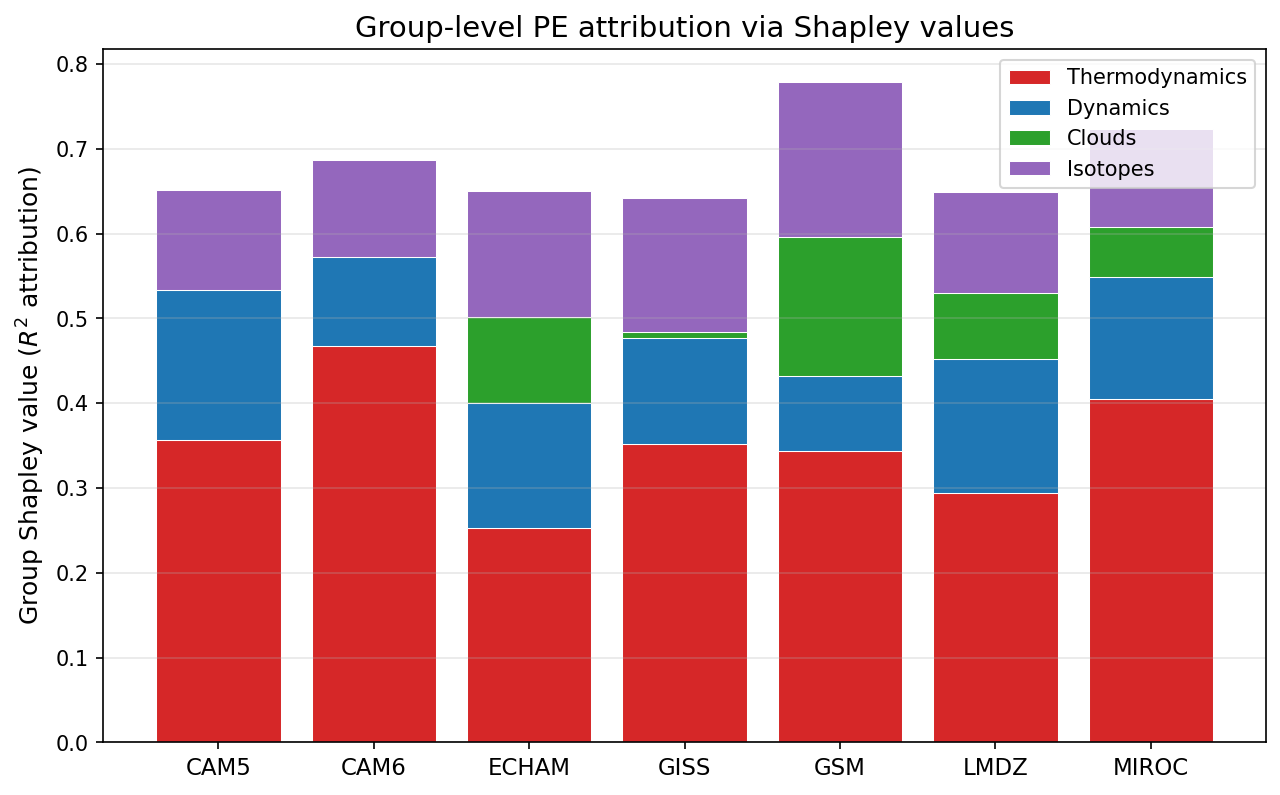
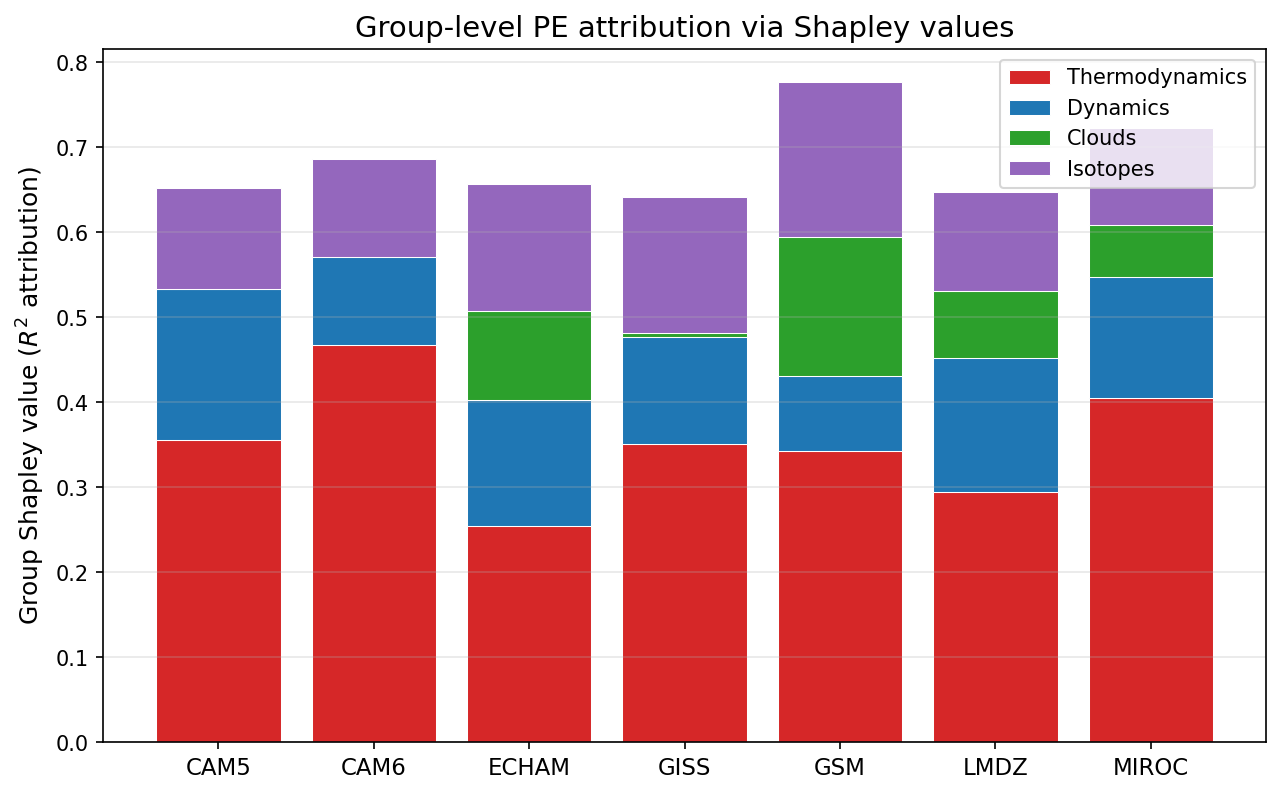
group shapley: cam5 exclusion, sensitivity, fraction heatmap

diff --git a/src/swing3/group_shapley_attribution.py b/src/swing3/group_shapley_attribution.py
@@ -11,6 +11,7 @@ from nc.loader import PROJECT_ROOT
 from swing3.config import (
     GROUP_COLORS,
     GROUP_LABELS,
+    MODEL_EXCLUDED_GROUPS,
     MODELS,
     PREDICTOR_GROUPS,
     columns_for_stage,
@@ -54,21 +55,48 @@ def _shapley_from_coalition_r2(coalition_r2: dict, group_names: list) -> dict:
 
 
 @MEMORY.cache
-def run_group_shapley_attribution(model_name: str, n_seeds: int = 5) -> dict:
+def run_group_shapley_attribution(
+    model_name: str,
+    n_seeds: int = 5,
+    isotope_features: tuple[str, ...] | None = None,
+    excluded_groups: tuple[str, ...] | None = None,
+) -> dict:
     """
-    Compute group-level Shapley values for the 4 predictor groups for one model.
+    Compute group-level Shapley values for the predictor groups for one model.
+
+    Parameters
+    ----------
+    isotope_features : tuple[str, ...] | None
+        Override the isotope feature list. When None, uses PREDICTOR_GROUPS["isotopes"].
+        Pass a tuple (hashable for caching) to run a sensitivity analysis, e.g.
+        isotope_features=("dD_gradient", "dexcessp") to exclude dDp.
+    excluded_groups : tuple[str, ...] | None
+        Groups to exclude entirely from the Shapley game (e.g. ("clouds",) for CAM5
+        which has no cloud data). Excluded groups receive a Shapley value of 0.
 
     Returns a dict
-      shapley      :  mean Shapley value per group
-      shapley_std  :  std of Shapley values across seeds
+      shapley      :  mean Shapley value per group (0 for excluded groups)
+      shapley_std  :  std of Shapley values across seeds (0 for excluded groups)
       coalition_r2 :  mean R2 per coalition (frozenset of group names -> float)
-      stage_4_r2   :  R2 of the full model (all 4 groups)
+      stage_4_r2   :  R2 of the full model (all active groups)
     """
     print(f"Loading features for {model_name}...")
     features, target, groups = load_shap_features(model_name)
 
-    group_names = list(PREDICTOR_GROUPS.keys())
+    predictor_groups = dict(PREDICTOR_GROUPS)
+    if isotope_features is not None:
+        predictor_groups = {**PREDICTOR_GROUPS, "isotopes": list(isotope_features)}
+
+    # Remove excluded groups from the Shapley game
+    _excluded = set(excluded_groups) if excluded_groups else set()
+    predictor_groups = {g: cols for g, cols in predictor_groups.items()
+                        if g not in _excluded}
+
+    group_names = list(predictor_groups.keys())
     n = len(group_names)
+
+    def _cols_for_coalition(coalition):
+        return [col for g in sorted(coalition) for col in predictor_groups[g]]
 
     # all 2^n - 1 non-empty subsets of groups, ordered by size for readable output
     all_coalitions = [
@@ -83,7 +111,7 @@ def run_group_shapley_attribution(model_name: str, n_seeds: int = 5) -> dict:
     coalition_r2_seeds: dict[frozenset, list[float]] = {frozenset(): [0.0] * n_seeds}
 
     for coalition in all_coalitions:
-        cols = columns_for_stage(list(coalition))
+        cols = _cols_for_coalition(coalition)
         print(f"\t\tTuning {set(coalition)}...")
         best_params = _tune_hyperparameters(
             features[cols], target, groups, random_state=10
@@ -107,20 +135,25 @@ def run_group_shapley_attribution(model_name: str, n_seeds: int = 5) -> dict:
     shapley_std = {
         g: float(np.std([o[g] for o in shapley_per_seed])) for g in group_names
     }
+    # Add zero entries for excluded groups so downstream code sees all groups
+    for g in _excluded:
+        shapley_mean[g] = 0.0
+        shapley_std[g] = 0.0
+
     coalition_r2_mean = {k: float(np.mean(v)) for k, v in coalition_r2_seeds.items()}
     stage_4_r2 = coalition_r2_mean[frozenset(group_names)]
 
-    # efficiency axiom: group Shapley values must sum to Stage 4 R2 (within rounding)
-    shapley_sum = sum(shapley_mean.values())
+    # efficiency axiom: active group Shapley values must sum to full-coalition R2
+    shapley_sum = sum(shapley_mean[g] for g in group_names)
     assert abs(shapley_sum - stage_4_r2) < 1e-6, (
         f"Efficiency axiom violated for {model_name}: "
-        f"sum(Shapley) = {shapley_sum:.6f}, Stage 4 R2 = {stage_4_r2:.6f}"
+        f"sum(Shapley) = {shapley_sum:.6f}, full-coalition R2 = {stage_4_r2:.6f}"
     )
 
     print(
-        f"\tGroup Shapley values (sum = {shapley_sum:.3f}, Stage 4 R2 = {stage_4_r2:.3f}):"
+        f"\tGroup Shapley values (sum = {shapley_sum:.3f}, full-coalition R2 = {stage_4_r2:.3f}):"
     )
-    for g in group_names:
+    for g in list(group_names) + sorted(_excluded):
         print(f"\t\t{g}: {shapley_mean[g]:.3f} +- {shapley_std[g]:.3f}")
 
     return {
@@ -187,19 +220,122 @@ def print_comparison_table(all_results: dict[str, dict]) -> None:
         print(row)
 
 
+def plot_group_fraction_heatmap(all_results: dict[str, dict]) -> None:
+    """Heatmap of group Shapley values as a fraction of Stage 4 R2 per model.
+
+    The dominant group per model is shown in bold. Answers: which model is most
+    dependent on which predictor group?
+    """
+    os.makedirs(PLOTS_DIR, exist_ok=True)
+
+    model_names = list(all_results.keys())
+    group_names = list(PREDICTOR_GROUPS.keys())
+
+    matrix = np.zeros((len(model_names), len(group_names)))
+    for i, m in enumerate(model_names):
+        r2 = all_results[m]["stage_4_r2"]
+        for j, g in enumerate(group_names):
+            matrix[i, j] = all_results[m]["shapley"][g] / r2 if r2 > 0 else 0
+
+    dominant_idx = matrix.argmax(axis=1)
+
+    fig, ax = plt.subplots(figsize=(8, 5))
+    im = ax.imshow(matrix, cmap="Blues", aspect="auto", vmin=0, vmax=1)
+
+    ax.set_xticks(np.arange(len(group_names)))
+    ax.set_xticklabels([GROUP_LABELS[g] for g in group_names], fontsize=11)
+    ax.set_yticks(np.arange(len(model_names)))
+    ax.set_yticklabels(model_names, fontsize=11)
+
+    for i in range(len(model_names)):
+        for j in range(len(group_names)):
+            val = matrix[i, j]
+            weight = "bold" if j == dominant_idx[i] else "normal"
+            color = "white" if val > 0.5 else "black"
+            ax.text(
+                j, i, f"{val:.2f}",
+                ha="center", va="center",
+                fontsize=10, fontweight=weight, color=color,
+            )
+
+    fig.colorbar(im, ax=ax, label="Fraction of Stage 4 R2", shrink=0.8)
+    ax.set_title(
+        "Group Shapley fraction of Stage 4 R2 per model\n(bold = dominant group)",
+        fontsize=13,
+    )
+
+    out = os.path.join(PLOTS_DIR, "group_fraction_heatmap.png")
+    fig.savefig(out, dpi=150, bbox_inches="tight")
+    plt.close(fig)
+    print(f"Saved: {out}")
+
+
+def print_dominant_group_table(all_results: dict[str, dict]) -> None:
+    """Print the dominant predictor group per model with its Shapley fraction."""
+    group_names = list(PREDICTOR_GROUPS.keys())
+    print(f"\n{'Model':<10}  {'Dominant group':<18}  {'Fraction':>8}  {'Stage4 R2':>10}")
+    print("-" * 55)
+    for model_name, result in all_results.items():
+        r2 = result["stage_4_r2"]
+        dominant = max(group_names, key=lambda g: result["shapley"][g])
+        frac = result["shapley"][dominant] / r2 if r2 > 0 else 0
+        print(f"{model_name:<10}  {GROUP_LABELS[dominant]:<18}  {frac:>8.3f}  {r2:>10.3f}")
+
+
+def print_sensitivity_comparison(
+    baseline: dict[str, dict],
+    sensitivity: dict[str, dict],
+) -> None:
+    """Compare isotope group Shapley values with and without dDp."""
+    print(f"\n{'Model':<10}  {'Isotopes (full)':>16}  {'Isotopes (no dDp)':>18}  {'Delta':>8}  {'Stage4 R2 (no dDp)':>18}")
+    print("-" * 80)
+    for model_name in baseline:
+        base_iso = baseline[model_name]["shapley"]["isotopes"]
+        base_std = baseline[model_name]["shapley_std"]["isotopes"]
+        sens_iso = sensitivity[model_name]["shapley"]["isotopes"]
+        sens_std = sensitivity[model_name]["shapley_std"]["isotopes"]
+        delta = sens_iso - base_iso
+        stage4 = sensitivity[model_name]["stage_4_r2"]
+        print(
+            f"{model_name:<10}  {base_iso:.3f}+-{base_std:.3f}  "
+            f"{sens_iso:.3f}+-{sens_std:.3f}  {delta:>+8.3f}  {stage4:>18.3f}"
+        )
+
+
 def main() -> None:
     os.makedirs(PLOTS_DIR, exist_ok=True)
 
     all_results = {}
     for model_name in MODELS:
         print(f"=== {model_name} ===")
-        all_results[model_name] = run_group_shapley_attribution(model_name)
+        excluded = tuple(sorted(MODEL_EXCLUDED_GROUPS.get(model_name, set())))
+        all_results[model_name] = run_group_shapley_attribution(
+            model_name, excluded_groups=excluded or None
+        )
 
     print("\nGroup Shapley attribution table:")
     print_comparison_table(all_results)
 
     print("\nGenerating plots...")
     plot_group_shapley_attribution(all_results)
+    plot_group_fraction_heatmap(all_results)
+
+    print("\nDominant group per model:")
+    print_dominant_group_table(all_results)
+
+    print("\n=== Sensitivity: dDp excluded from isotope group ===")
+    sensitivity_results = {}
+    for model_name in MODELS:
+        print(f"=== {model_name} ===")
+        sensitivity_results[model_name] = run_group_shapley_attribution(
+            model_name, isotope_features=("dD_gradient", "dexcessp")
+        )
+
+    print("\nSensitivity table (dDp excluded):")
+    print_comparison_table(sensitivity_results)
+
+    print("\nIsotope attribution comparison (full vs. no dDp):")
+    print_sensitivity_comparison(all_results, sensitivity_results)
 
     print("\nDone.")
 
